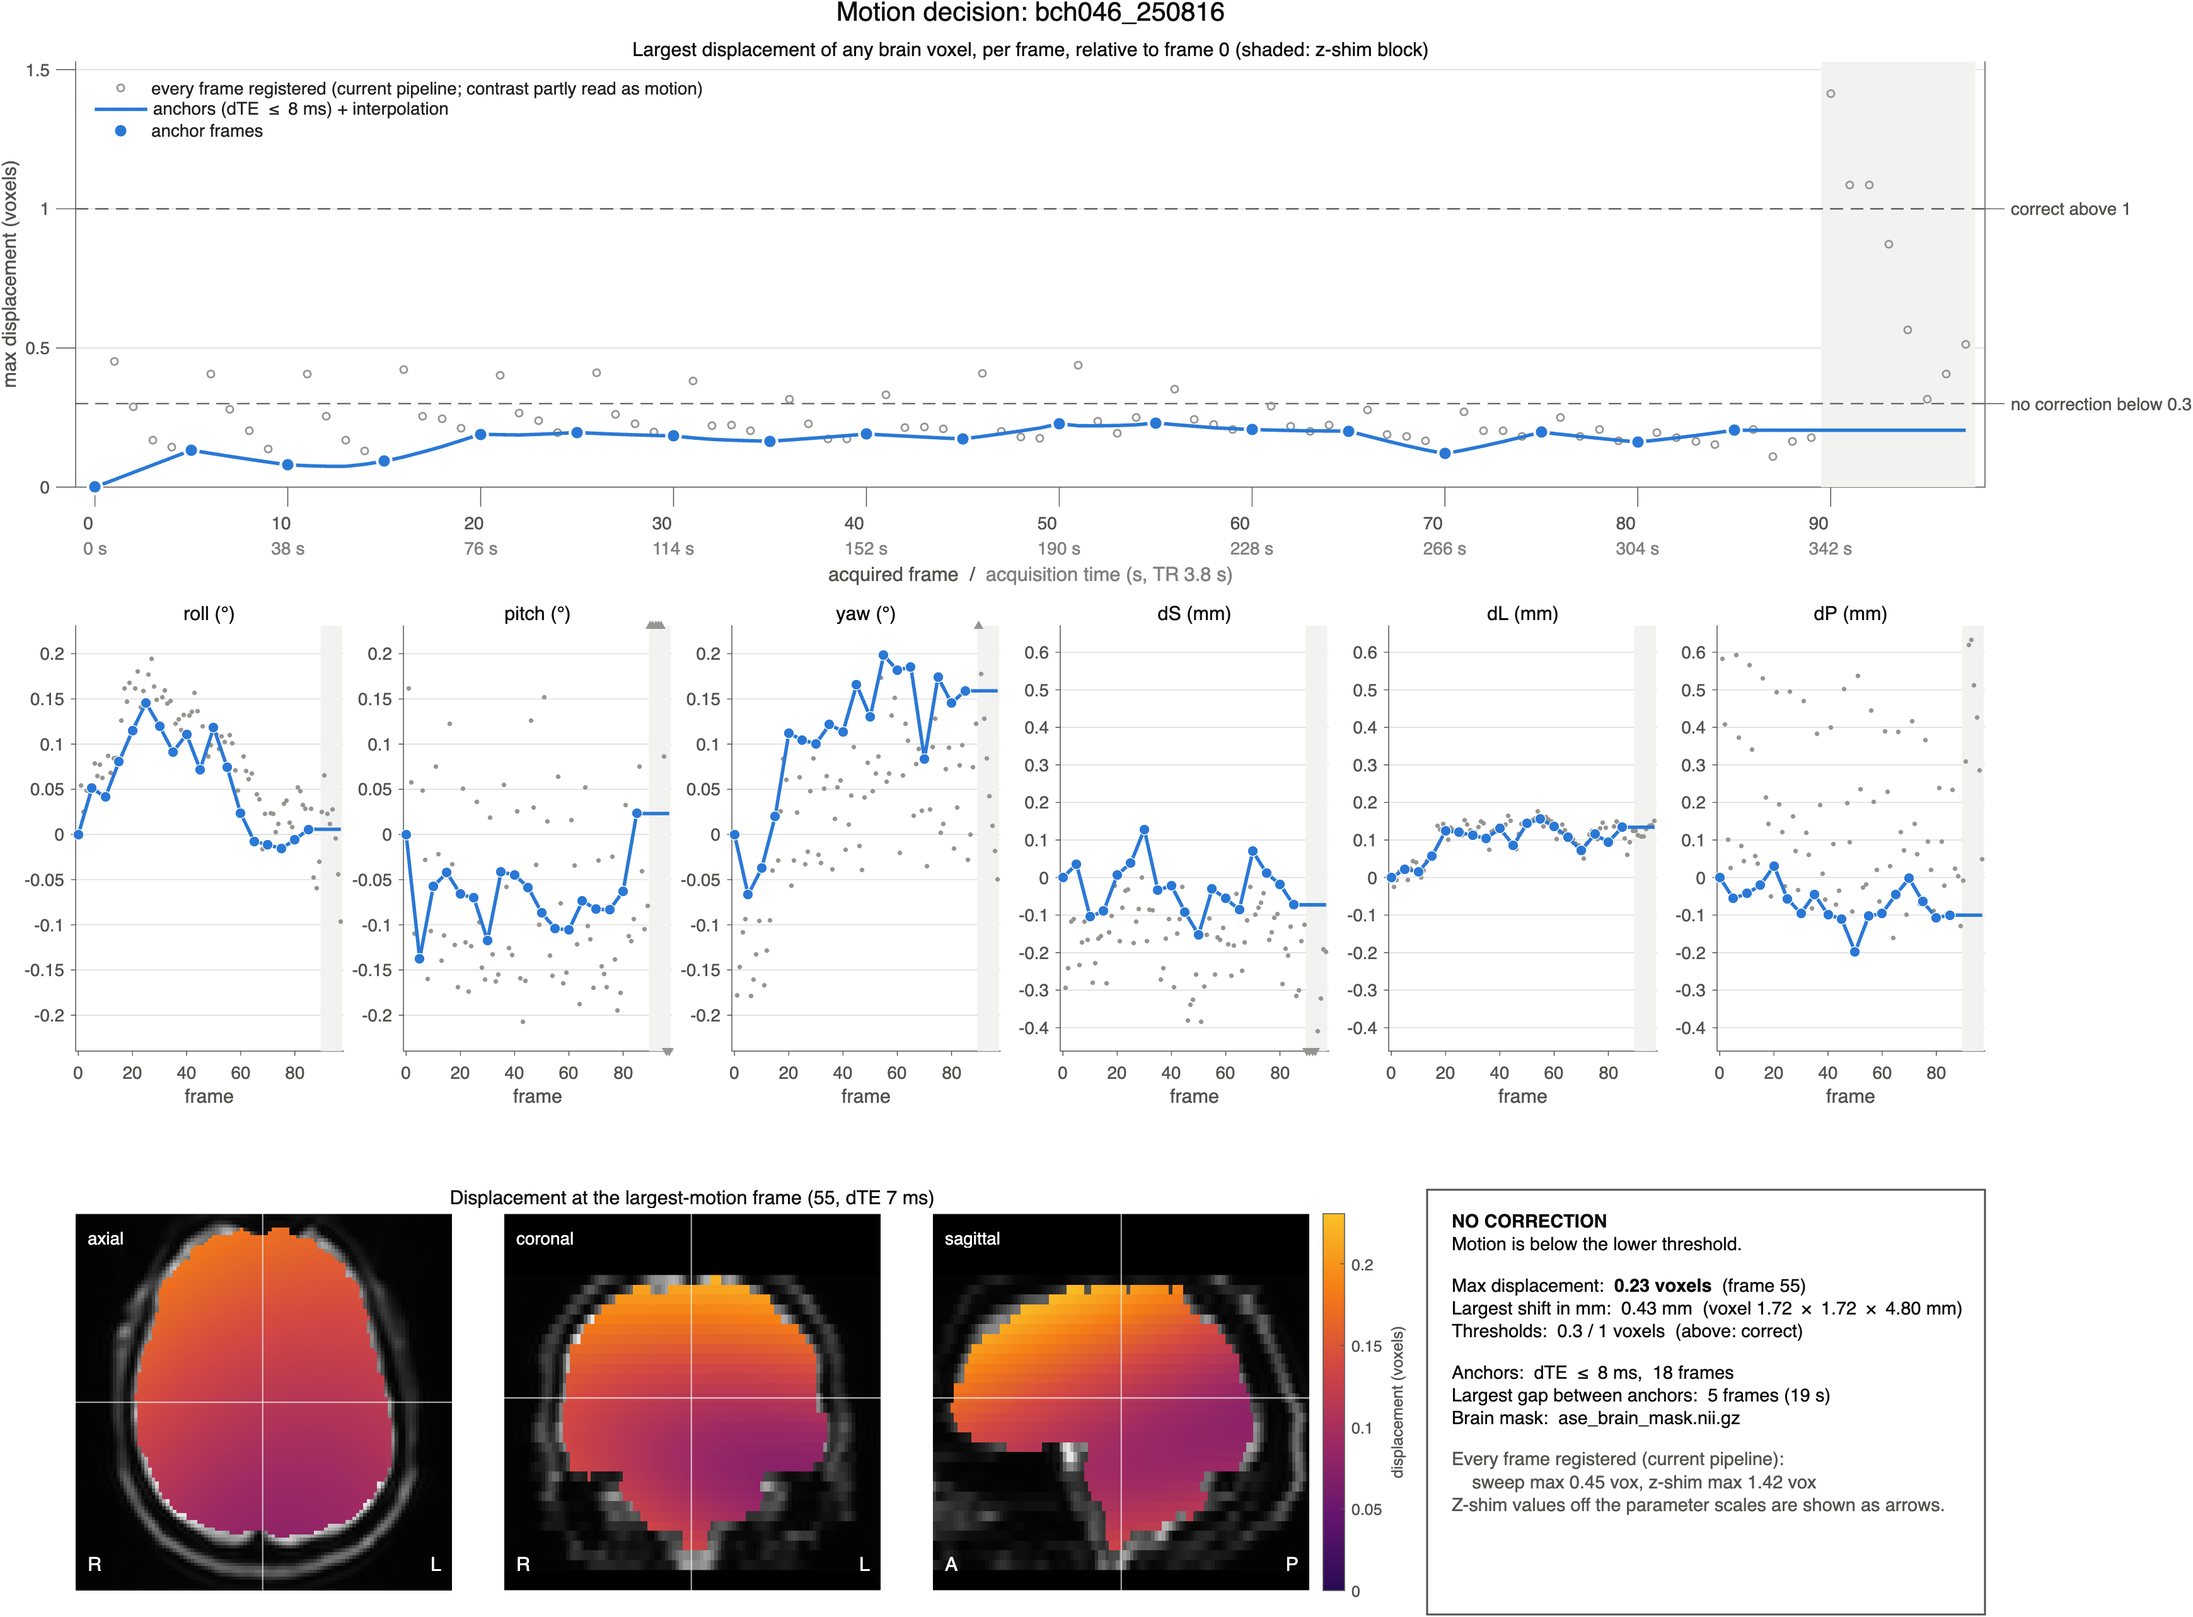
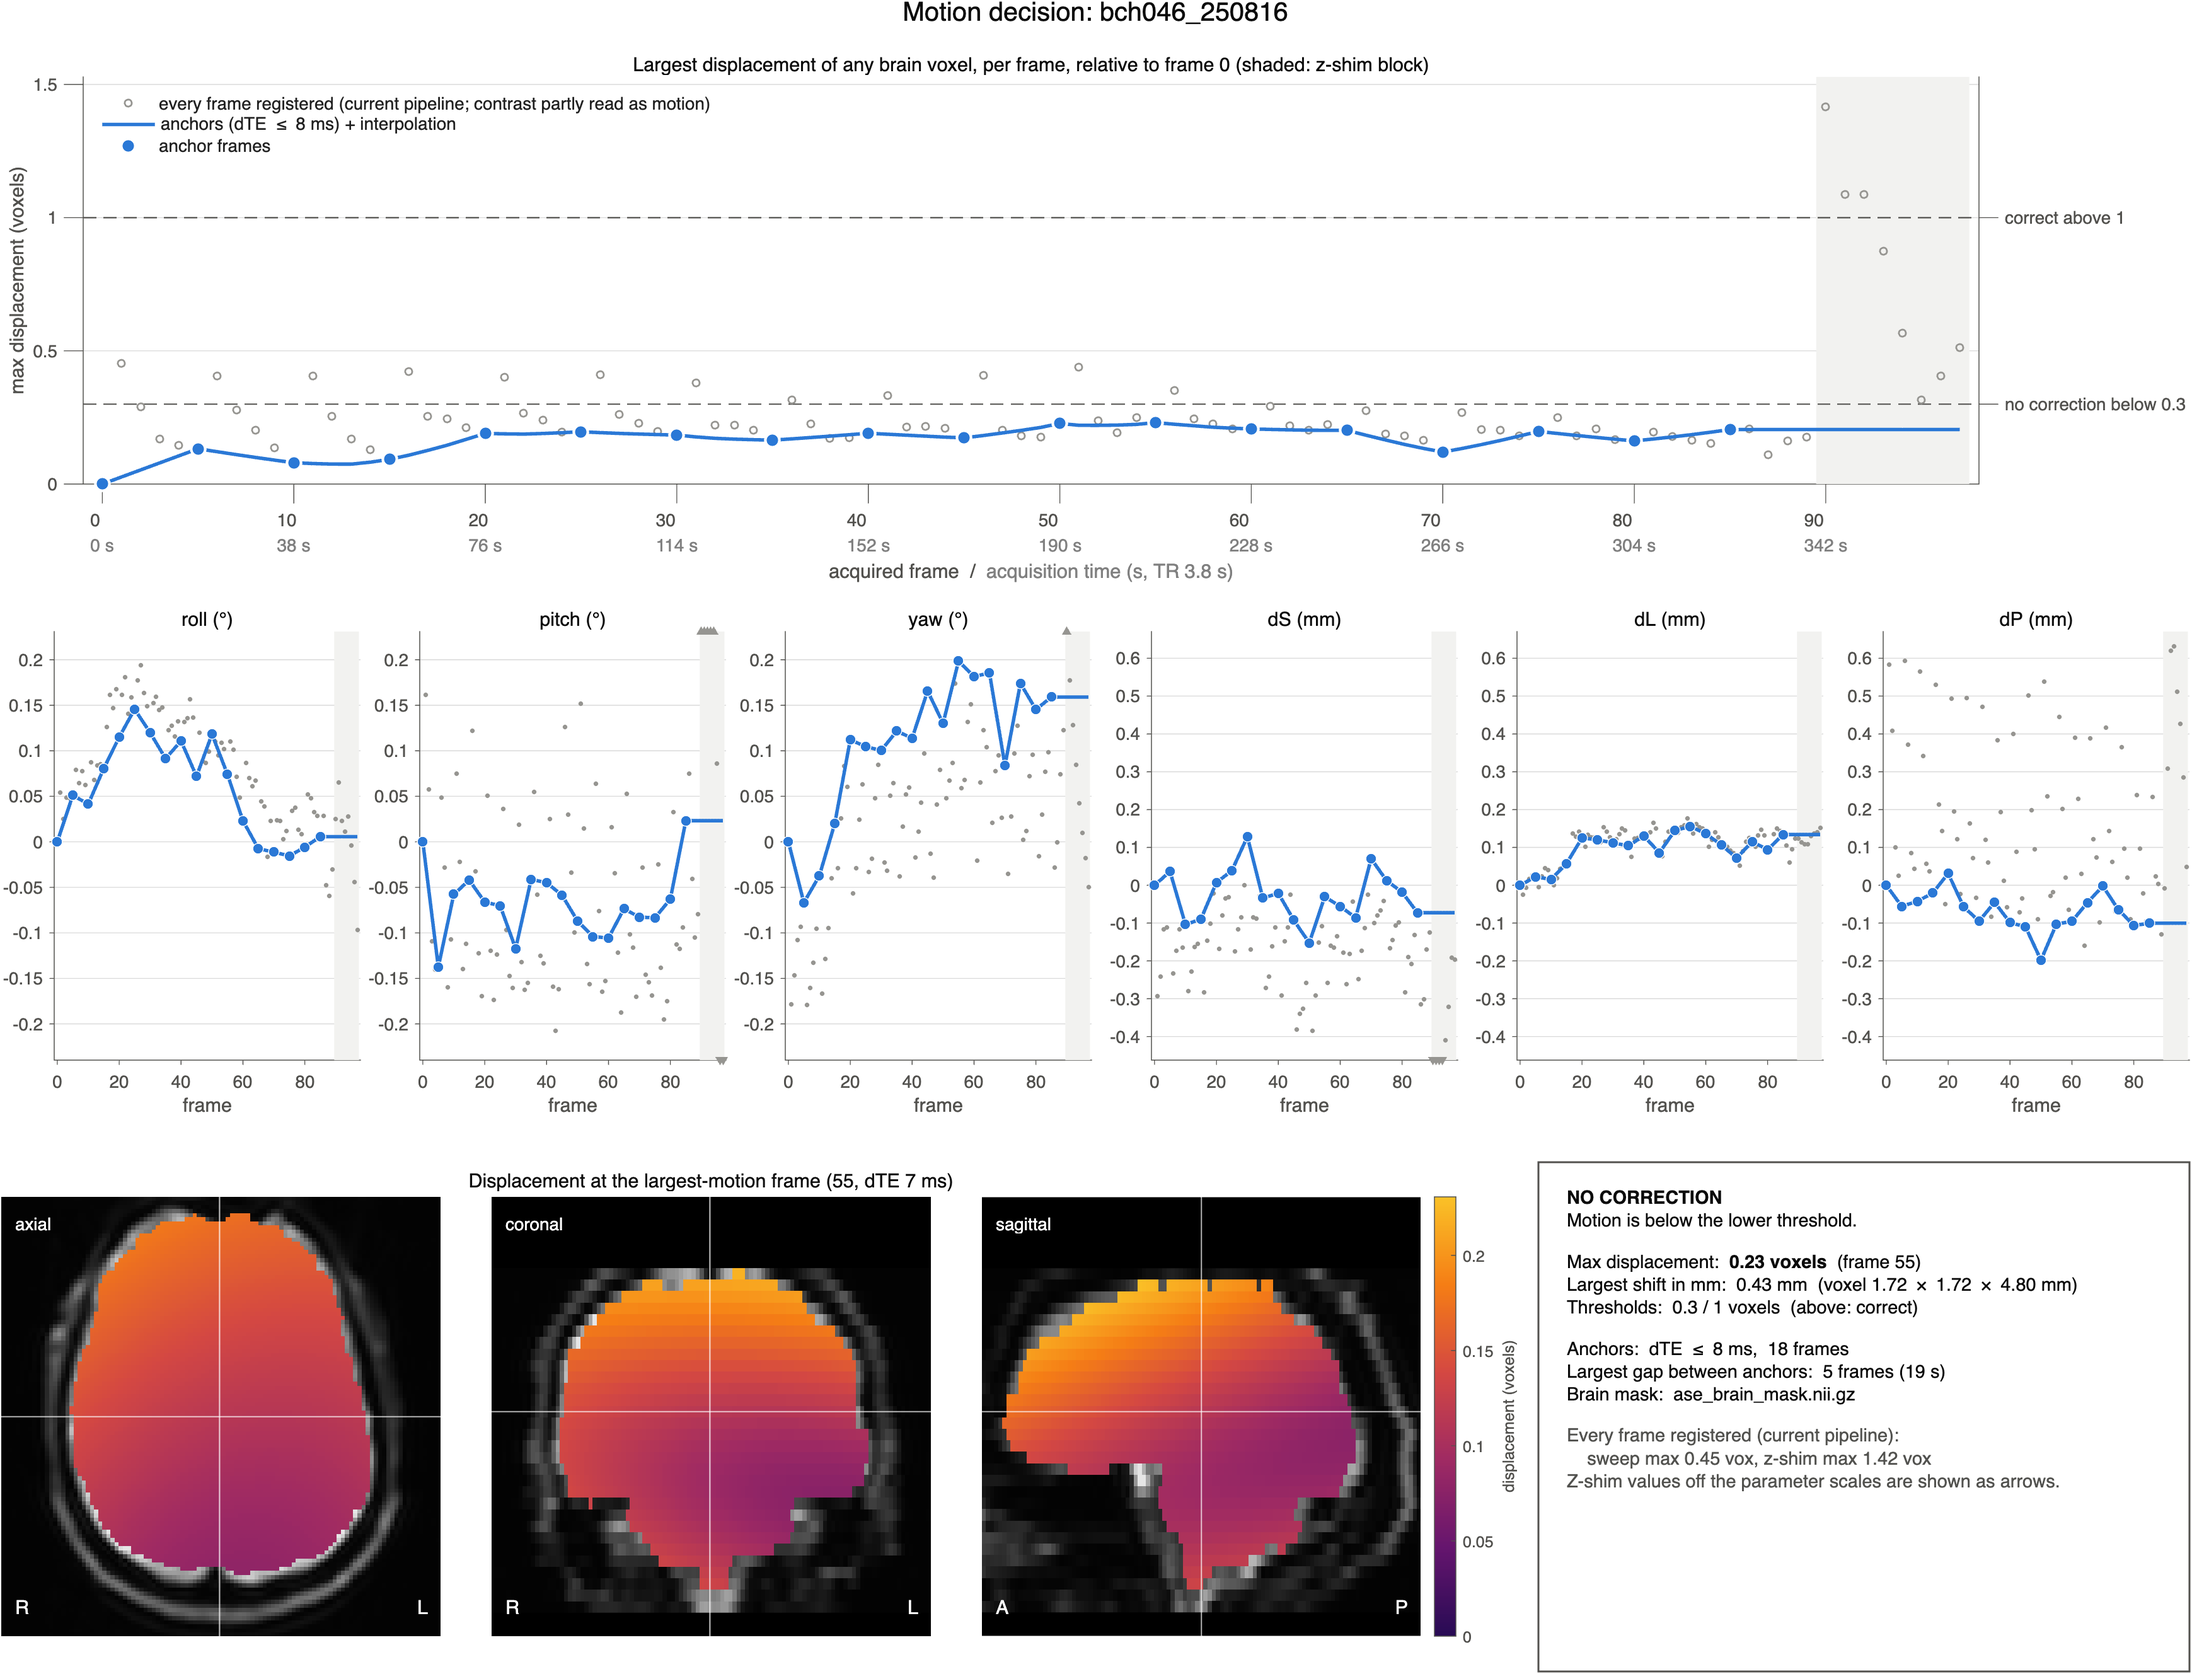
Motion report: full-width rows; plan the preprocessing reorder
- motionReport.m: rows are independent layouts, so the timeline's right-axis
  threshold labels no longer narrow the parameter and map rows; figure title as
  a figure-level text box.
- motion-correction-plan.md: next steps, starting with the preprocessing order
  (anatomy and registration before motion, since the decision needs the brain
  mask); decisions.md open question 7; docs index entry updated.

diff --git a/Scripts/motionReport.m b/Scripts/motionReport.m
@@ -127,10 +127,14 @@ function drawFigure(R, dTE, an, sw, zs, pFull, pInt, dMap, base, mask, A, file)
     C.shade = [0.95 0.95 0.94];  C.excl = [214 69 65]/255;
     nF = numel(dTE);  fr = (0:nF-1)';
     f = figure('Visible','off','Color','w','Units','pixels','Position',[0 0 1700 1300]);
-    tl = tiledlayout(f, 3, 6, 'TileSpacing', 'compact', 'Padding', 'compact');
+    % three independent rows (normalised [left bottom width height]), so the timeline's right-axis
+    % labels do not narrow the rows below
+    rowPos = {[0.01 0.645 0.98 0.315], [0.01 0.335 0.98 0.30], [0.01 0.01 0.98 0.315]};
 
     % --- displacement timeline (voxels; the decision metric) ---
-    ax = nexttile(tl, [1 6]);  yyaxis(ax, 'left');  hold(ax, 'on');
+    % own nested layout, so the right-axis labels don't narrow the rows below
+    t0 = tiledlayout(f, 1, 1, 'Padding', 'tight', 'OuterPosition', rowPos{1});
+    ax = nexttile(t0);  yyaxis(ax, 'left');  hold(ax, 'on');
     yl = [0 1.08*max([R.dispFull_vox; R.threshHigh*1.15])];
     zband(ax, zs, yl, C);
     for t = [R.threshLow R.threshHigh]
@@ -166,8 +170,7 @@ function drawFigure(R, dTE, an, sw, zs, pFull, pInt, dMap, base, mask, A, file)
     yyaxis(ax, 'left');
 
     % --- six parameters: rotations share one y range, translations another ---
-    t2 = tiledlayout(tl, 1, 6, 'TileSpacing', 'compact', 'Padding', 'tight');
-    t2.Layout.Tile = 7;  t2.Layout.TileSpan = [1 6];
+    t2 = tiledlayout(f, 1, 6, 'TileSpacing', 'compact', 'Padding', 'tight', 'OuterPosition', rowPos{2});
     pn = {'roll (°)','pitch (°)','yaw (°)','dS (mm)','dL (mm)','dP (mm)'};
     grp = {1:3, 4:6};  ylG = zeros(2,2);
     for g = 1:2
@@ -190,8 +193,9 @@ function drawFigure(R, dTE, an, sw, zs, pFull, pInt, dMap, base, mask, A, file)
     end
 
     % --- displacement map at the worst frame: three planes through the brain centroid ---
-    t3 = tiledlayout(tl, 1, 3, 'TileSpacing', 'compact', 'Padding', 'tight');
-    t3.Layout.Tile = 13;  t3.Layout.TileSpan = [1 4];
+    tB = tiledlayout(f, 1, 6, 'TileSpacing', 'compact', 'Padding', 'tight', 'OuterPosition', rowPos{3});
+    t3 = tiledlayout(tB, 1, 3, 'TileSpacing', 'compact', 'Padding', 'tight');
+    t3.Layout.Tile = 1;  t3.Layout.TileSpan = [1 4];
     cmapD = interp1(linspace(0,1,6), [40 11 84; 101 21 110; 159 42 99; 212 72 66; 245 125 21; 250 193 39]/255, ...
         linspace(0,1,256));
     cmax = max(dMap(:), [], 'omitnan');
@@ -224,7 +228,7 @@ function drawFigure(R, dTE, an, sw, zs, pFull, pInt, dMap, base, mask, A, file)
         'FontSize', 11, 'Color', C.ink);
 
     % --- decision panel ---
-    ax = nexttile(tl, 17, [1 2]);
+    ax = nexttile(tB, 5, [1 2]);
     set(ax, 'Box', 'on', 'XTick', [], 'YTick', [], 'XColor', C.ink2, 'YColor', C.ink2, 'LineWidth', 1, ...
         'XLim', [0 1], 'YLim', [0 1]);
     switch R.decision
@@ -247,7 +251,9 @@ function drawFigure(R, dTE, an, sw, zs, pFull, pInt, dMap, base, mask, A, file)
     text(ax, 0.04, 0.95, L, 'Units', 'normalized', 'VerticalAlignment', 'top', 'FontSize', 10.5, 'Color', C.ink, ...
         'Interpreter', 'tex');
 
-    title(tl, sprintf('Motion decision: %s', strrep(R.subject, '_', '\_')), 'FontSize', 15, 'Color', C.ink);
+    annotation(f, 'textbox', [0 0.965 1 0.033], 'String', sprintf('Motion decision: %s', R.subject), ...
+        'Interpreter', 'none', 'EdgeColor', 'none', 'HorizontalAlignment', 'center', ...
+        'VerticalAlignment', 'middle', 'FontSize', 15, 'Color', C.ink);
     exportgraphics(f, file, 'Resolution', 200);  close(f);
     fprintf('wrote %s\n', file);
 end

diff --git a/docs/motion-correction-plan.md b/docs/motion-correction-plan.md
@@ -8,7 +8,14 @@ Status: **approach chosen, report built, not yet in the pipeline** (written 2026
 - **Z-shim block** is never registered on its own data: it holds the last anchor's transform. **Echo 2** always reuses echo 1's transforms.
 - **Decision metric:** the largest displacement of any brain voxel over the run, in voxels (each component divided by the voxel size along its axis, so anisotropic voxels are handled). The decision covers the whole run (correct all frames or none).
 - **Thresholds:** below `threshLow`, no correction (suggested by the PI: avoid correction artefacts when real motion is small); between, correct; above `threshHigh`, `highAction` = `correct` or `exclude`. **Not calibrated yet** (placeholders 0.3 / 1.0 voxels); calibrate on cluster subjects with more motion. How `exclude` works (frames vs a repetition; effects on `combineAseReps`, `estimateRepNoise`, z-shim) is deferred until a subject needs it.
-- **Brain mask** for the metric: `ase_brain_mask.nii.gz`, now made by `asePreProcess.sh` stage 9. Note for the pipeline version: it depends on the registration (stage 6), which runs after motion correction (stage 4). Registration only uses `ase_base`, so the motion decision can move after stage 6, or use `3dAutomask` of `ase_base`.
+- **Brain mask** for the metric: `ase_brain_mask.nii.gz`, now made by `asePreProcess.sh` stage 9.
+
+## Next steps
+
+1. **Preprocessing order (to do before the decision goes into the pipeline).** The motion decision needs the brain mask, which needs the registration (stage 6) and the anatomy (stage 5), but motion correction is stage 4. Registration only uses `ase_base` (raw echo-1 frame 0, made before motion correction), so the proposed order is: conversion, header, `ase_base` → anatomy (5) → registration (6) → brain mask → motion estimate on the anchors, decision, and correction → segmentations and quality masks (7–8), which do not depend on motion. To settle: the regeneration flags and their downstream forcing (`--regenAnat` / `--regenRegister` would then force the motion decision), subjects without anatomy (`segNames` empty: fall back to `3dAutomask` of `ase_base`, or skip the decision and keep the current correction), and recording the decision (metric, thresholds, anchors) next to the motion outputs.
+2. **Calibrate the thresholds** on cluster subjects with more motion (`motionReport` on each; then choose `threshLow` / `threshHigh` relative to the voxel size).
+3. **Define `exclude`** once a subject needs it (frames vs a repetition; `combineAseReps`, `estimateRepNoise`, z-shim).
+4. **Pipeline implementation:** register only the anchors, interpolate, apply to both echoes (or skip below `threshLow`); then the evaluation below (fit residuals, maps, Gz agreement, repetition noise) on the chosen settings.
 
 ## Anchor check (bch046, 2026-11-25)
 

diff --git a/docs/decisions.md b/docs/decisions.md
@@ -41,3 +41,4 @@ This page lists the method decisions in short form. Full evidence (tables, simul
    - The 4.8 mm slices increase through-slice dephasing. Thinner slices may also make the joint Gz fit worthwhile.
    - **Add a distortion-correction scan.** No field map or reverse phase-encode scan has been identified for the ASE (to be confirmed per protocol). The ASE is a single-shot spin-echo EPI (`epse2d2_64`, Prisma XA30): 64 phase-encode lines, no in-plane acceleration, phase encoding along anterior–posterior (`j-`), total readout 62 ms, so the bandwidth per pixel along PE is only 15.9 Hz. An off-resonance of Δf Hz therefore shifts signal by Δf / 15.9 acquired pixels (3.4 mm each): about 2 mm per 10 Hz, so roughly 20 mm at 100 Hz near the sinuses and petrous bone. Registration to the T1 can only be affine, so this local distortion stays in the ROI placement of the inferior frontal and temporal lobes and the brainstem. Options, cheapest first: (a) a short reverse-PE spin-echo EPI with the same readout (a few b0-like volumes, for FSL `topup` or AFNI `3dQwarp -plusminus`); (b) a dual-echo GRE field map (Siemens `gre_field_mapping`). Option (a) matches the spin-echo contrast and is the usual choice. In-plane acceleration (GRAPPA 2) would also halve the distortion. Its effect on the ASE signal model needs checking first.
 6. **ROI summary.** ROI-fit values (region-averaged signal) and voxel medians differ by about 20% in OEF. Decide which one to report.
+7. **Motion correction order and thresholds.** The anchor-frame motion decision (see [motion-correction-plan.md](motion-correction-plan.md)) needs the brain mask, which comes after registration, while motion correction runs before it. Reorder preprocessing (anatomy and registration before motion) before the decision goes into `asePreProcess.sh`; the thresholds are still placeholders.

diff --git a/docs/README.md b/docs/README.md
@@ -9,7 +9,7 @@
 | [anat-route-report.md](anat-route-report.md) | proposal with evidence: take the anatomy from the FreeSurfer recon instead of the BOLD pipeline's `session_afni_nortc` (one-subject comparison, figures, decisions needed) |
 | [calibration-plan.md](calibration-plan.md) | the cohort calibration of the quality thresholds and correction defaults (in progress): method, phases, export, decisions needed |
 | [quality-mask-plan.md](quality-mask-plan.md) | the original work order (action plan) for the November 2026 quality-mask build |
-| [motion-correction-plan.md](motion-correction-plan.md) | open problem: echo-1 motion estimates follow the τ-dependent ASE contrast; options and how to evaluate them (not started) |
+| [motion-correction-plan.md](motion-correction-plan.md) | echo-1 motion estimates follow the τ-dependent ASE contrast: chosen approach (short-τ anchor frames, threshold decision), the bch046 check, the per-subject report (`Scripts/motionReport.m`), and next steps including the preprocessing order |
 | [quality-mask-report.md](quality-mask-report.md) | detailed lab log of the November 2026 quality-mask work and review: all numbers, simulations and checks behind decisions.md |
 | `../AnLab_Comp/results/report.md` | comparison with the AnLab pipeline on the same subject |
 
